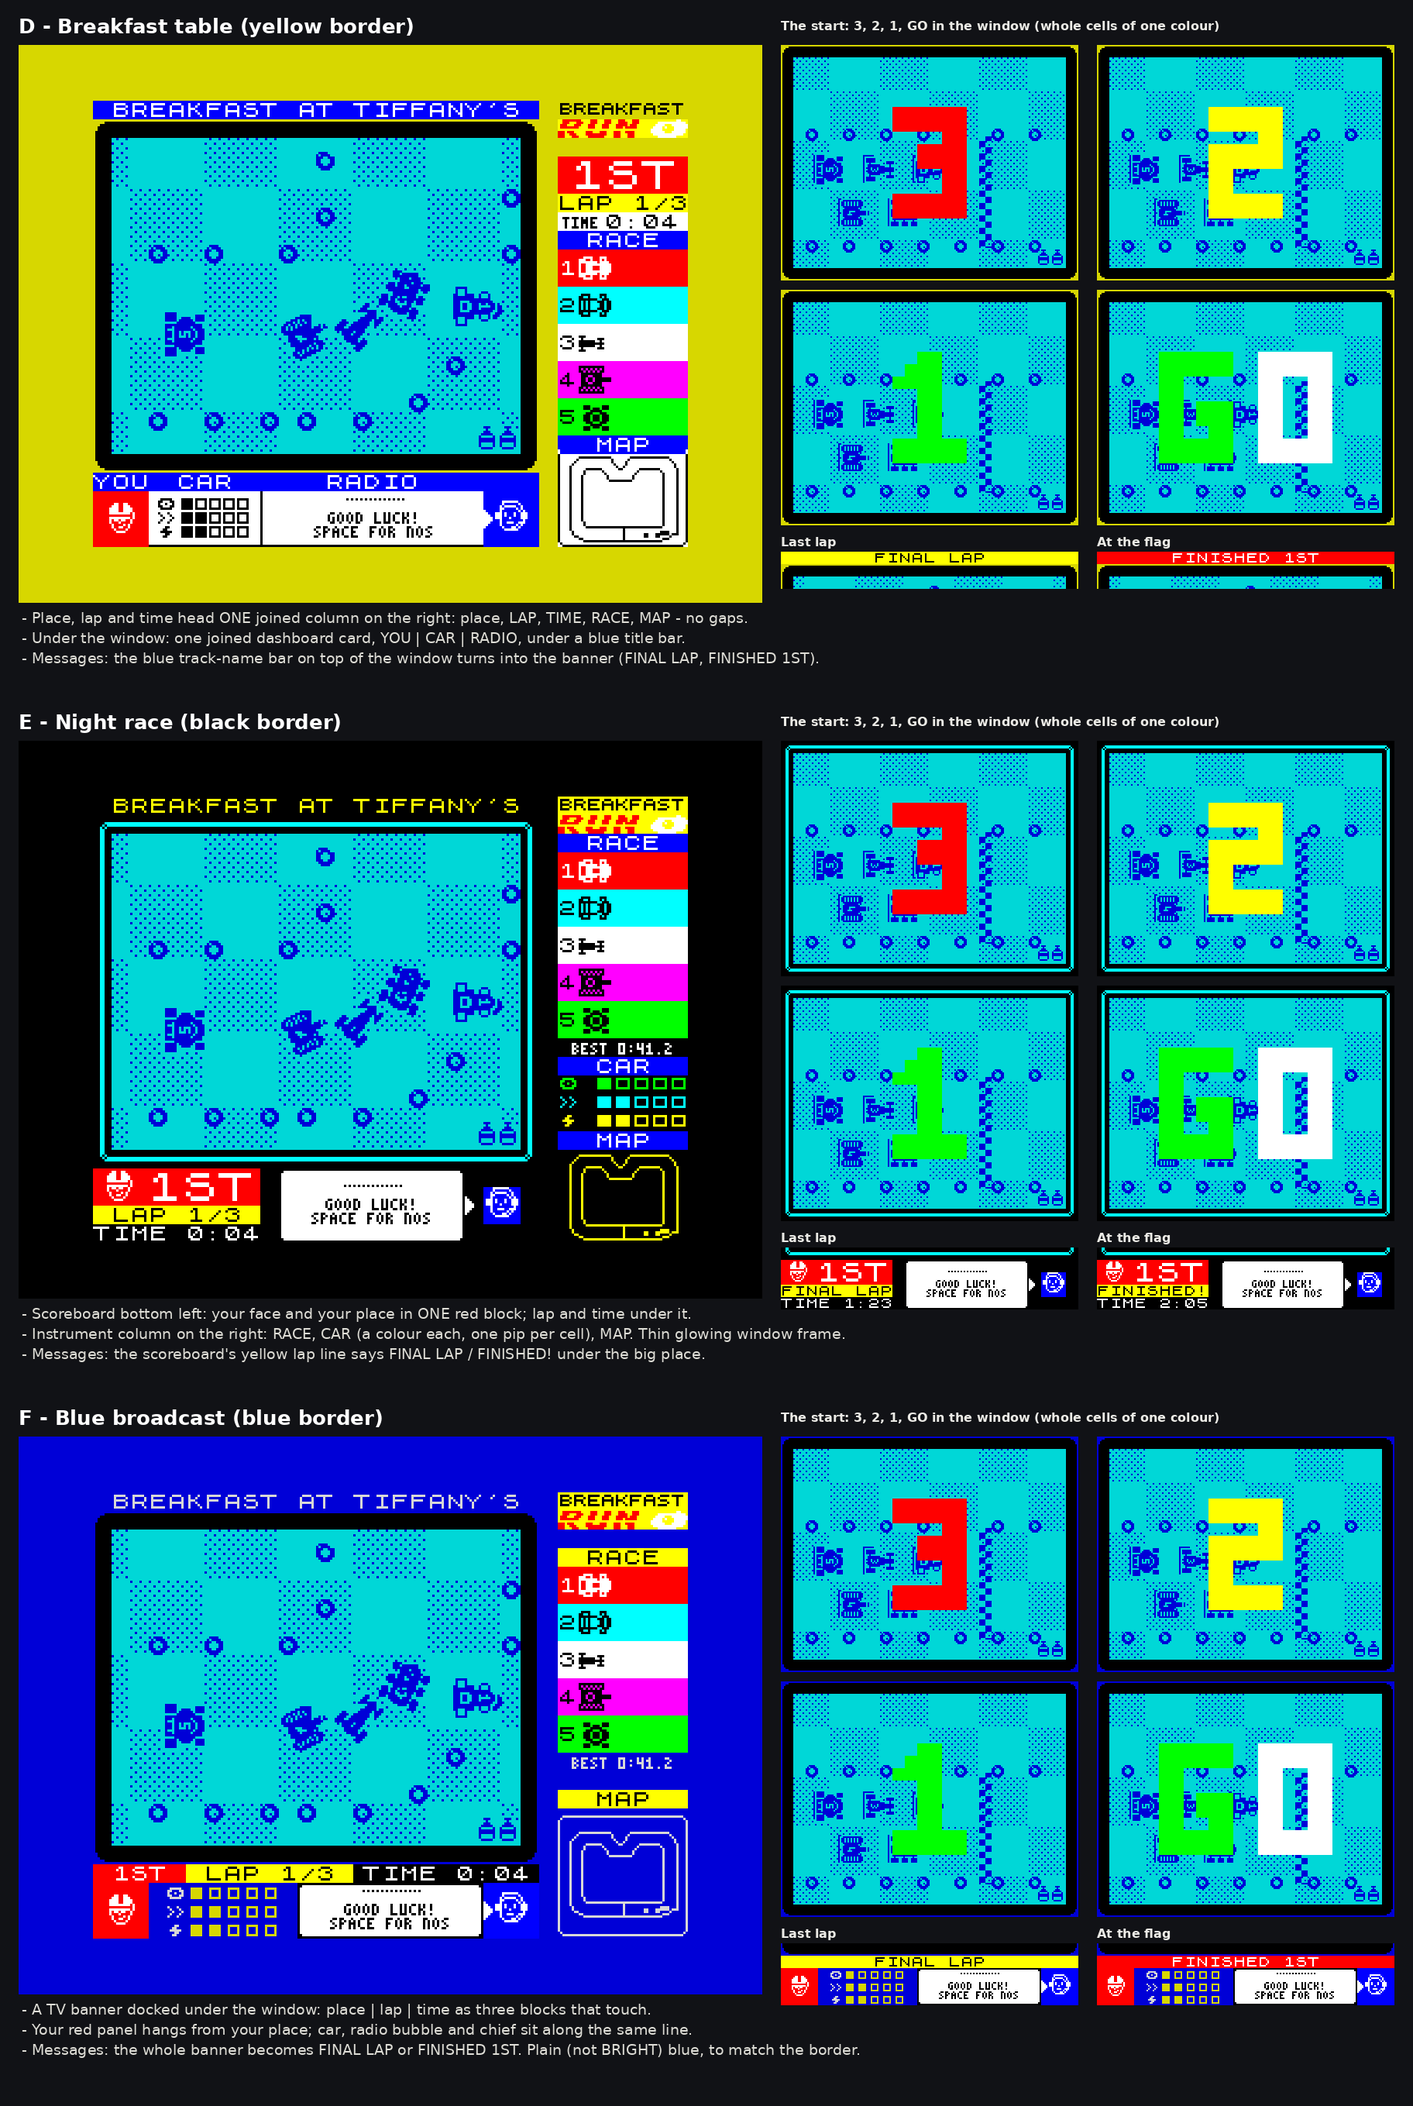
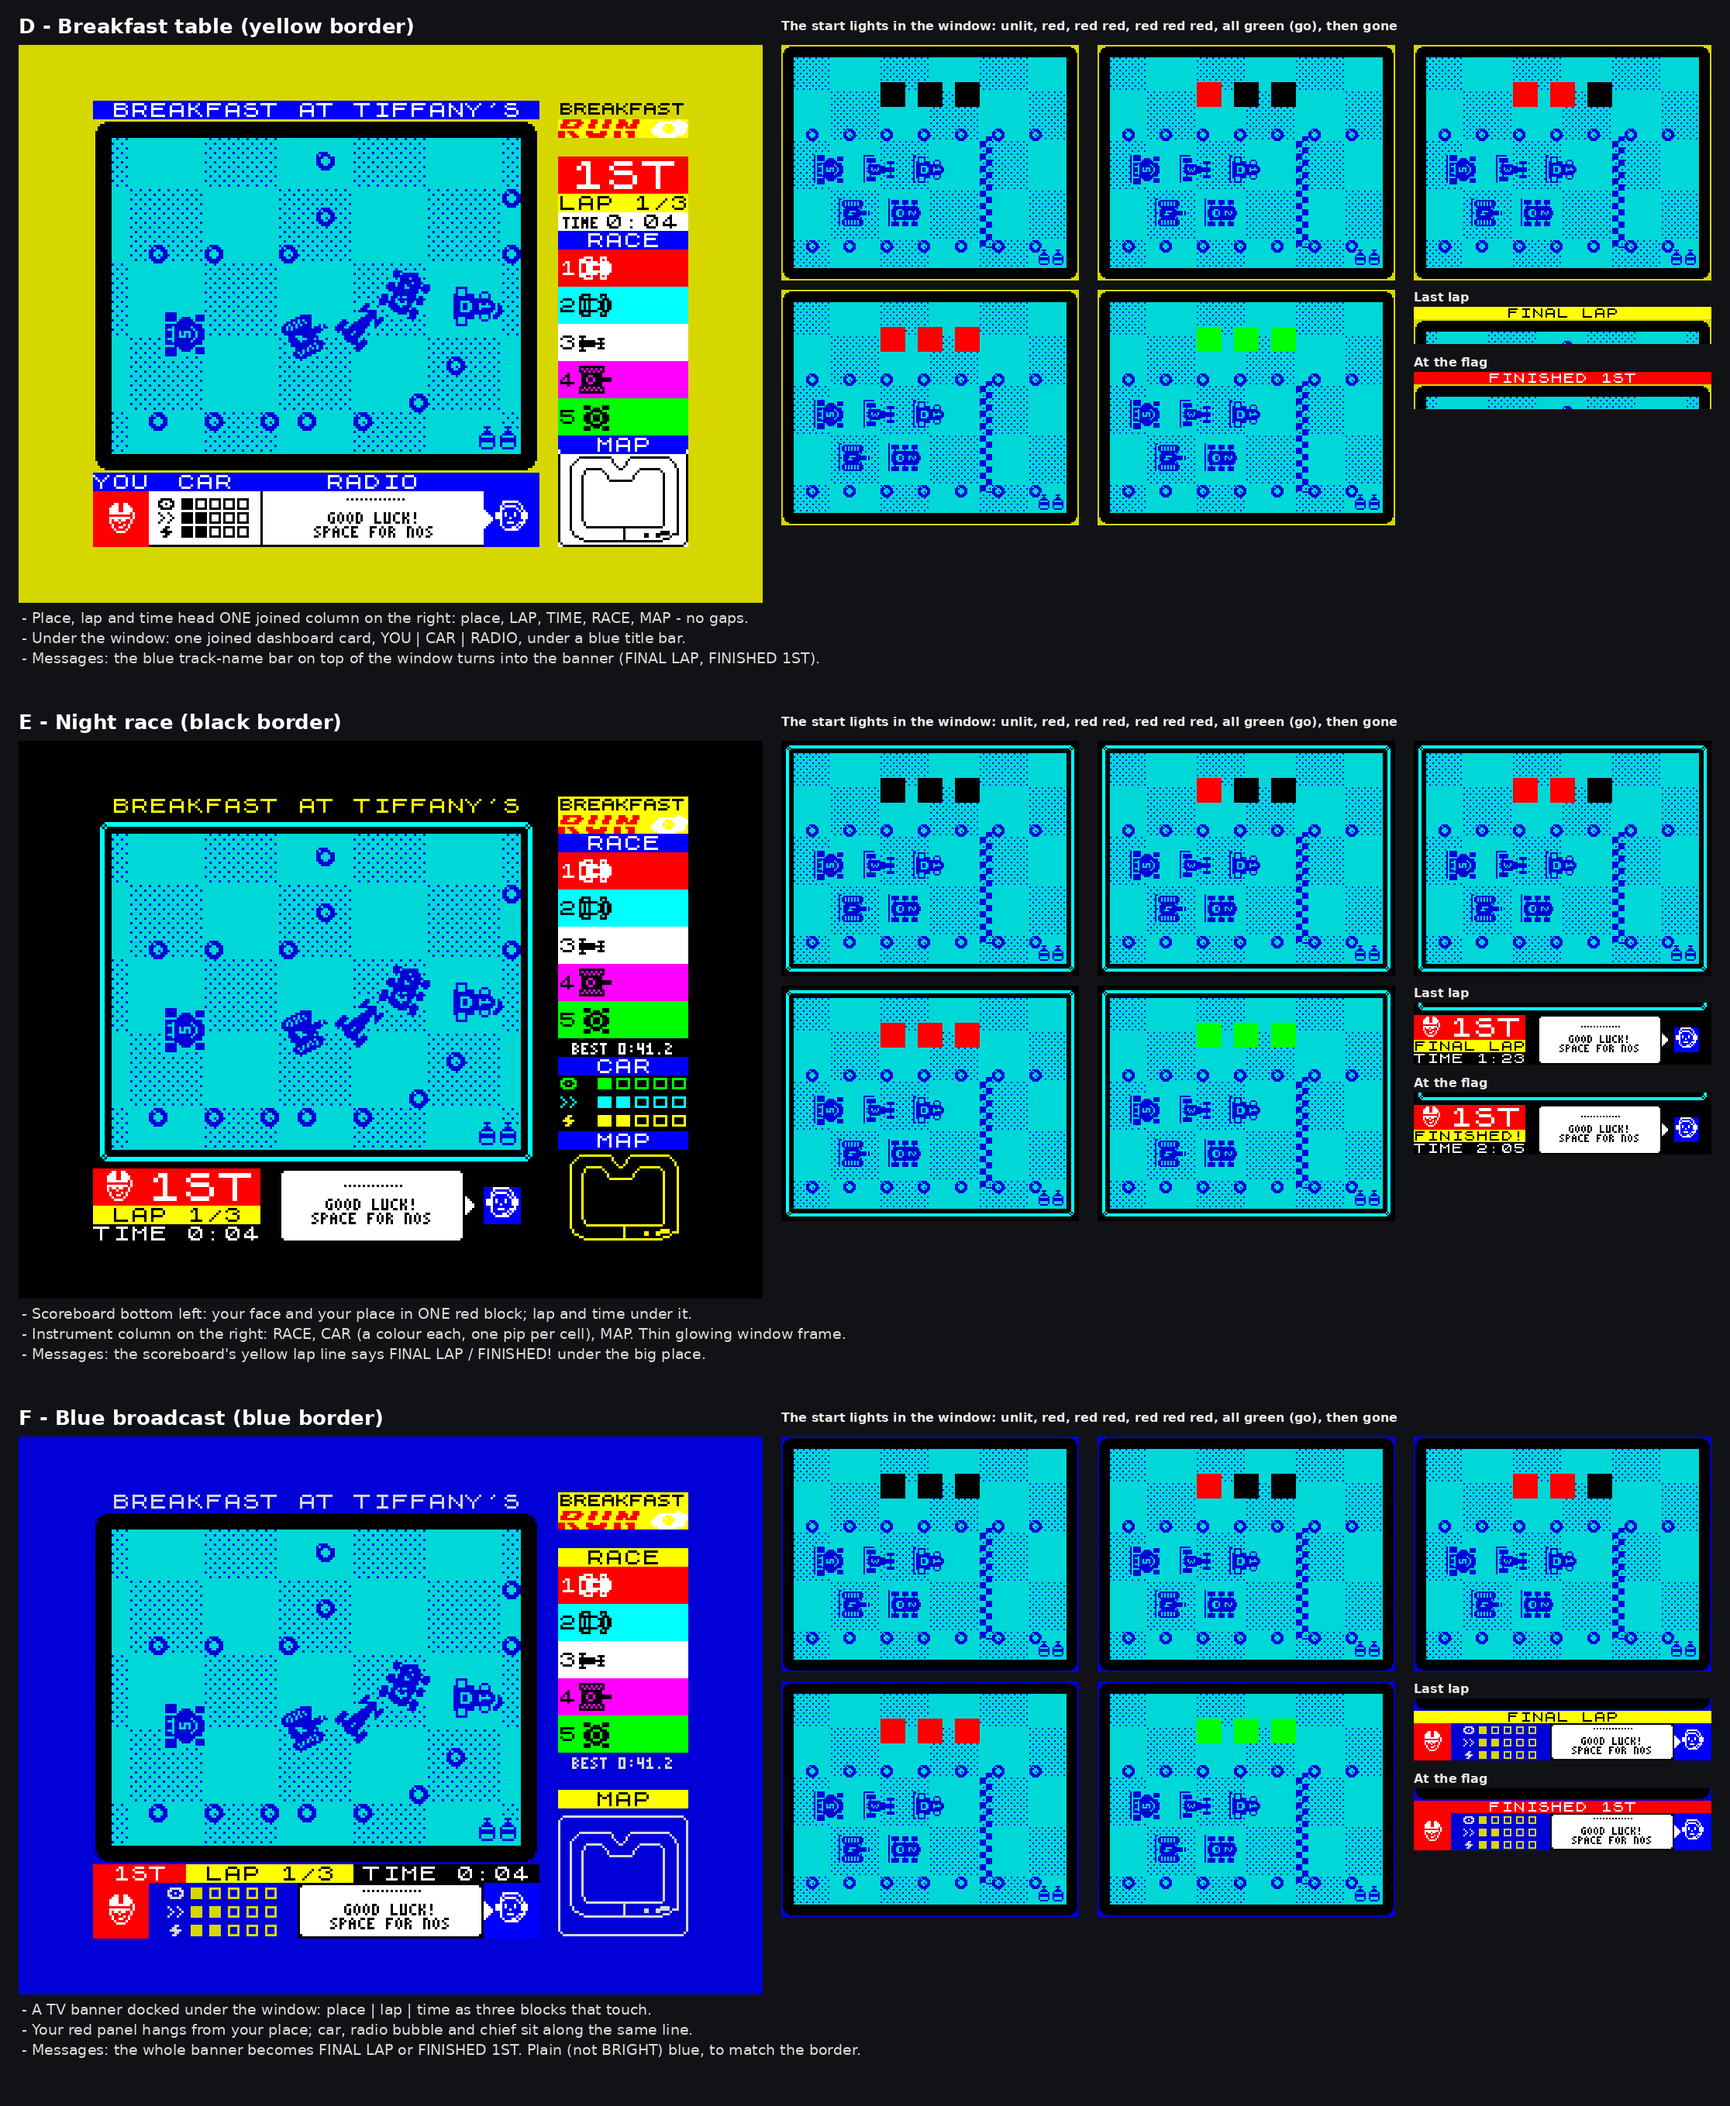
Screen options D, E, F: the start as three light blocks in the window (not 3-2-1 figures)
Claude-Session: https://claude.ai/code/session_01476U86GiAC8cKs57wAJvc3

diff --git a/tools/make_screen_options2.py b/tools/make_screen_options2.py
@@ -15,10 +15,12 @@ every one:
     the diagonal: each pixel is the majority of the pixels one or more checks below it);
   - there is no message bar: place, lap and time live in the dashboard or the side column, and
     FINAL LAP / FINISHED have a named home;
-  - the start is a 3, 2, 1, GO countdown IN the window, each figure made of whole 8 x 8 cells of
-    one solid colour (the cell's paper AND ink are set to that colour, so whatever is under it is
-    hidden and nothing can clash; no pixels are drawn - taking it away is putting the cells back
-    to blue on cyan);
+  - the start is three LIGHTS in the window (Grant, later the same day: "the three 2 one go is
+    too much. I like the original idea of the lights - so three blocks, they change colour as the
+    countdown goes"): three blocks of 2 x 2 whole cells, unlit (black), then red one at a time,
+    then all green, then gone. A block is its cells' paper AND ink set to one colour, so whatever
+    is under it is hidden and nothing can clash; no pixels are drawn - taking it away is putting
+    the cells back to blue on cyan;
   - the border (the game can only give it one colour, and never a BRIGHT one) matches the
     surround: yellow, black or blue - so a blue surround uses the Spectrum's plain blue;
   - kept: race order in the cars' colours, mini-map, your face, crew chief and bubble, the three
@@ -35,7 +37,7 @@ every one:
 Made up for the pictures: the best-lap time, the times in the FINAL LAP / FINISHED pictures, and
 the top 8 lines of the window (see above). Everything else is lifted from the real screens.
 
-Writes docs/design/screen_options2.png (D, E, F: the race screen 3x, the countdown as four
+Writes docs/design/screen_options2.png (D, E, F: the race screen 3x, the start lights as five
 pictures, the two messages, notes) and screen_option_d.png, _e.png, _f.png (the race screen 3x).
 Usage: make_screen_options2.py"""
 import os, sys
@@ -85,20 +87,15 @@ class Dump:
         self.frame = f
 RACING = Dump('mock_128_racing.bin'); BEFORE = Dump('mock_128_before.bin')
 
-# the countdown figures: one letter here is one whole cell
-FIG = {'3': ["XXXXXX", "XXXXXX", "....XX", "..XXXX", "..XXXX", "....XX", "....XX", "XXXXXX", "XXXXXX"],
-       '2': ["XXXXXX", "XXXXXX", "....XX", "XXXXXX", "XXXXXX", "XX....", "XX....", "XXXXXX", "XXXXXX"],
-       '1': ["..XX..", ".XXX..", "XXXX..", "..XX..", "..XX..", "..XX..", "..XX..", "XXXXXX", "XXXXXX"],
-       'G': ["XXXXXX", "XXXXXX", "XX....", "XX....", "XX.XXX", "XX.XXX", "XX..XX", "XXXXXX", "XXXXXX"],
-       'O': ["XXXXXX", "XXXXXX", "XX..XX", "XX..XX", "XX..XX", "XX..XX", "XX..XX", "XXXXXX", "XXXXXX"]}
-SOLID = {'red': 0x52, 'yellow': 0x76, 'green': 0x64, 'white': 0x7F}    # paper = ink, BRIGHT
-COUNT = {'3': [('3', 9, 'red')], '2': [('2', 9, 'yellow')], '1': [('1', 9, 'green')],
-         'GO': [('G', 5, 'green'), ('O', 13, 'white')]}
+# the start lights (Grant, 14 Nov 2026: "the three 2 one go is too much. I like the original idea
+# of the lights - so three blocks, they change colour as the countdown goes"): three blocks of
+# 2 x 2 whole cells, a cell apart, centred near the top of the window (cols 8-9, 11-12, 14-15,
+# rows 4-5). A block is its cells' paper AND ink set to one colour - no pixels are drawn.
+UNLIT, RED, GREEN = 0x00, 0x52, 0x64           # black; bright red; bright green
+COUNT = {'off': (UNLIT, UNLIT, UNLIT), 'r1': (RED, UNLIT, UNLIT), 'r2': (RED, RED, UNLIT),
+         'r3': (RED, RED, RED), 'go': (GREEN, GREEN, GREEN)}
 def countdown(a, state):
-    for fig, c0, col in COUNT.get(state, []):
-        for j, row in enumerate(FIG[fig]):
-            for i, v in enumerate(row):
-                if v == 'X': a[6 + j, c0 + i] = SOLID[col]
+    for k, at in enumerate(COUNT.get(state, ())): a[4:6, 8 + 3 * k:10 + 3 * k] = at
 
 def big(b, s, x, y):                           # ROM letters twice size
     t = np.zeros((8, 8 * len(s)), dtype=np.uint8); rom(t, s, 0, 0)
@@ -202,12 +199,12 @@ option_f.border = 1; option_f.msg = (0, 152, 192, 192)
 
 def check(name, fn):
     """The promises: racing, the window's pixels from y 24 are the real ones (plus the NOS) and
-    every window cell is blue on cyan; in the countdown only whole cells change colour."""
+    every window cell is blue on cyan; at the start lights only whole cells change colour."""
     b, a = fn('race'); t = RACING.b.copy(); nos(t)
     assert (b[24:152, 8:184] == t[24:152, 8:184]).all(), name + ': play window pixels changed'
     assert (a[2:19, 1:23] == WIN).all(), name + ': play window colours changed'
-    b3, a3 = fn('3'); t = BEFORE.b.copy(); nos(t)
-    assert (b3[24:152, 8:184] == t[24:152, 8:184]).all(), name + ': the countdown drew pixels'
+    b3, a3 = fn('r2'); t = BEFORE.b.copy(); nos(t)
+    assert (b3[24:152, 8:184] == t[24:152, 8:184]).all(), name + ': the start lights drew pixels'
 
 OPTIONS = [('D - Breakfast table (yellow border)', option_d,
             ['Place, lap and time head ONE joined column on the right: place, LAP, TIME, RACE, MAP - no gaps.',
@@ -235,22 +232,22 @@ if __name__ == '__main__':
         check(title, fn)
         b, a = fn('race'); main = render(b, a, border=fn.border, s=3)
         o = os.path.join(DESIGN, 'screen_option_%s.png' % title[0].lower()); main.save(o); print('wrote', os.path.normpath(o), main.size)
-        strip = [(s if s != 'GO' else 'GO!', crop(fn, s, (0, 8, 192, 160), 2)) for s in ('3', '2', '1', 'GO')]
+        strip = [(s, crop(fn, s, (0, 8, 192, 160), 2)) for s in ('off', 'r1', 'r2', 'r3', 'go')]
         msgs = [(t, crop(fn, s, fn.msg, 2)) for s, t in (('final', 'Last lap'), ('finish', 'At the flag'))]
         rows.append((title, main, strip, msgs, notes))
     gap = 24; mw, mh = rows[0][1].size; cw, ch = rows[0][2][0][1].size
-    W = gap + mw + gap + 2 * cw + gap + gap
+    W = gap + mw + gap + 3 * cw + 2 * gap + gap
     rh = 46 + max(mh, 2 * (ch + 24) + 24 + max(m[1].height for r in rows for m in r[3])) + 92
     out = Image.new('RGB', (W, rh * len(rows) + gap), BG); d = ImageDraw.Draw(out)
     for n, (title, main, strip, msgs, notes) in enumerate(rows):
         y = gap // 2 + n * rh; x = gap
         d.text((x, y + 6), title, fill=(255, 255, 255), font=f); out.paste(main, (x, y + 46))
         x2 = gap + mw + gap
-        d.text((x2, y + 12), 'The start: 3, 2, 1, GO in the window (whole cells of one colour)', fill=FG, font=fl)
+        d.text((x2, y + 12), 'The start lights in the window: unlit, red, red red, red red red, all green (go), then gone', fill=FG, font=fl)
         for k, (t, im) in enumerate(strip):
-            out.paste(im, (x2 + (k % 2) * (cw + gap), y + 46 + (k // 2) * (ch + 12)))
-        ym = y + 46 + 2 * (ch + 12)
+            out.paste(im, (x2 + (k % 3) * (cw + gap), y + 46 + (k // 3) * (ch + 12)))
+        xm = x2 + 2 * (cw + gap); ym = y + 46 + ch + 12
         for k, (t, im) in enumerate(msgs):
-            d.text((x2 + k * (cw + gap), ym), t, fill=FG, font=fl); out.paste(im, (x2 + k * (cw + gap), ym + 22))
+            d.text((xm, ym), t, fill=FG, font=fl); out.paste(im, (xm, ym + 22)); ym += 22 + im.height + 14
         for k, t in enumerate(notes): d.text((gap + 4, y + 46 + mh + 8 + 26 * k), '- ' + t, fill=(222, 221, 214), font=fs)
     o = os.path.join(DESIGN, 'screen_options2.png'); out.save(o); print('wrote', os.path.normpath(o), out.size)
